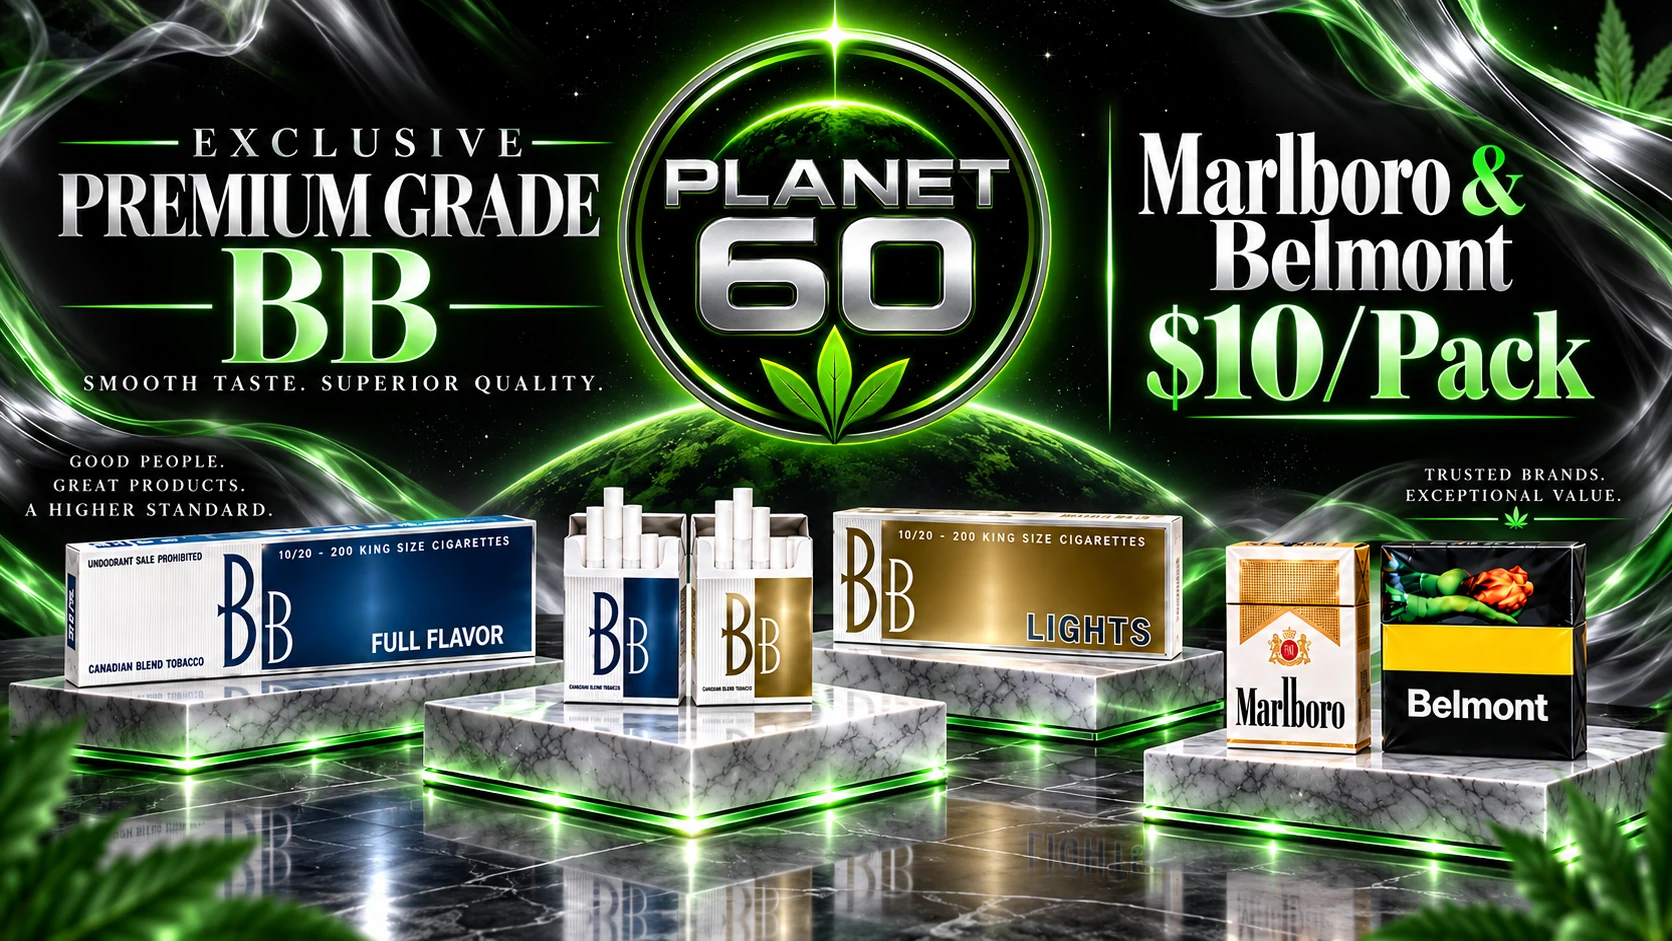
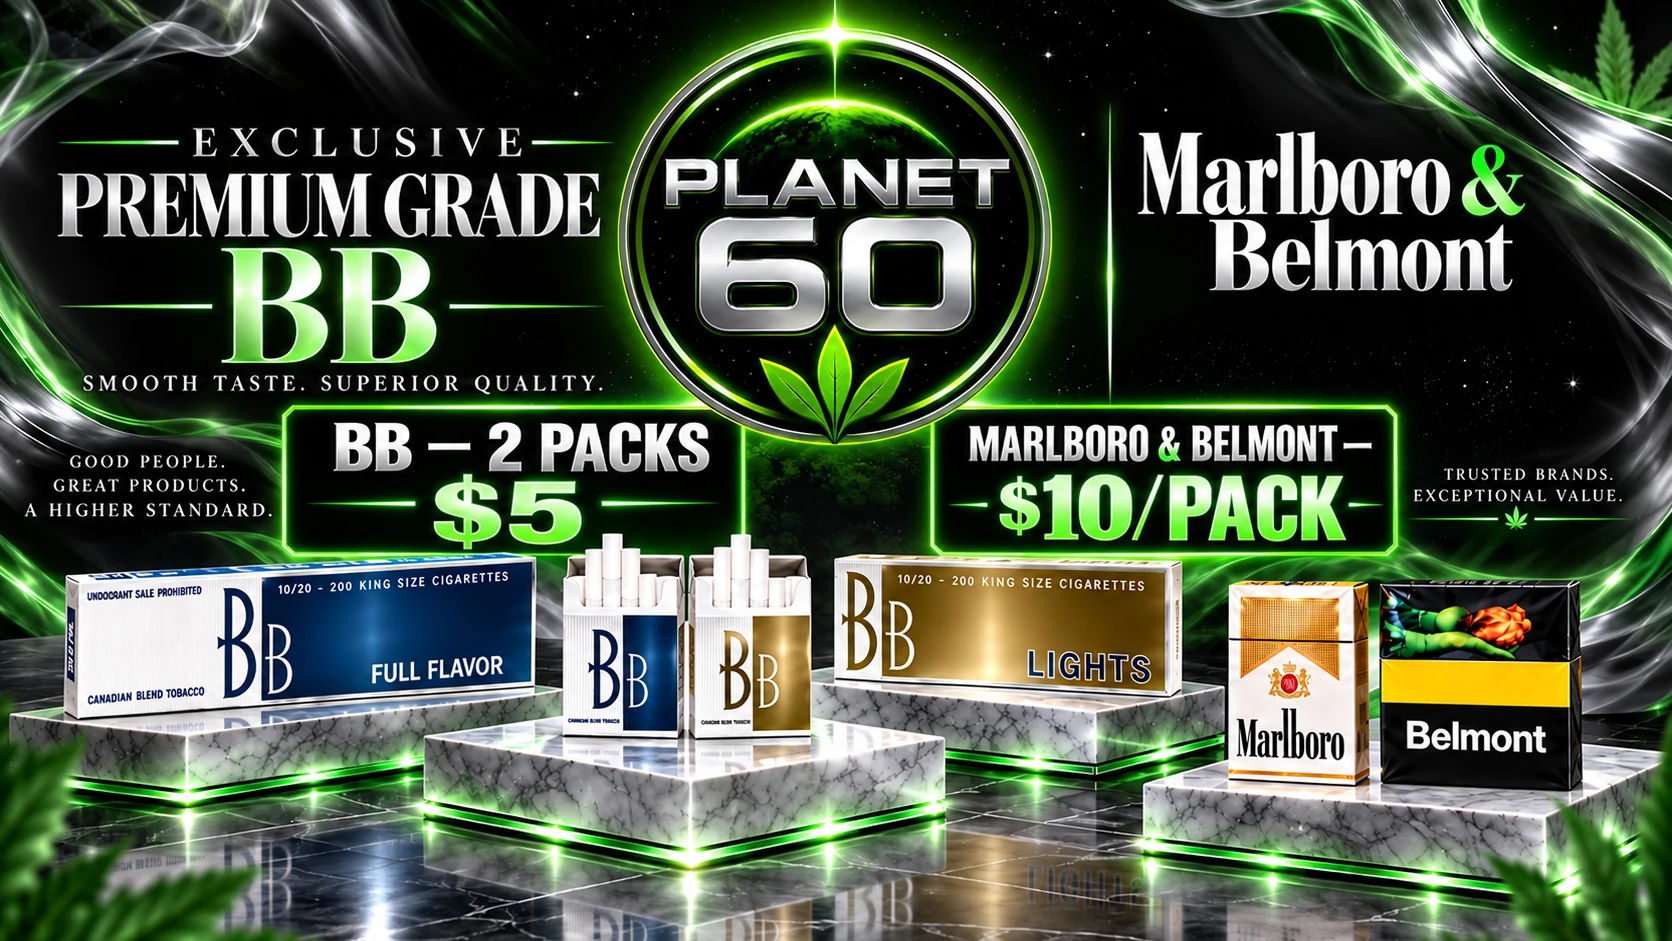
Add core promos to matching categories (#68)

diff --git a/app/components/CategoryCoreBanners.tsx b/app/components/CategoryCoreBanners.tsx
@@ -1,0 +1,52 @@
+import Link from "next/link";
+
+type CategoryCoreBannersProps = { kind: "weed" | "vapes" | "cigarettes" };
+
+const STORE_NAME = "The Planet 60";
+const STORE_AREA = "Peter Robertson Boulevard, Brampton";
+const STORE_ORIGIN = "https://www.theplanet60.com";
+const TOP_WEED_IMAGE = "/banners/core-top-weed-tier.webp";
+const CIGARETTE_IMAGE = "/banners/native-cigarette-offer-20260822.webp";
+const VAPE_IMAGE = "/banners/core-vapes-nicotine-thc.webp";
+const PREMIUM_CIGARETTE_IMAGE = "/banners/core-premium-bb-marlboro-belmont.webp";
+
+export const cigaretteCategoryImage = {
+  alt: `${STORE_NAME} in ${STORE_AREA} — 2 packs for $5 mix and match and $25 carton cigarette offer`,
+  title: `${STORE_NAME} cigarette offer — 2 packs $5 mix and match, $25 carton`,
+};
+
+const promos = {
+  weed: { image: TOP_WEED_IMAGE, href: "/exotic-weed", alt: `${STORE_NAME} in ${STORE_AREA} — Exotic, Premium and AAA+ top weed tiers`, title: `${STORE_NAME} top weed tiers — Exotic, Premium and AAA+`, caption: "Exotic, Premium and AAA+ weed", linkLabel: "Shop weed tiers", schemaName: `${STORE_NAME} top weed tiers`, schemaDescription: `Exotic, Premium and AAA+ weed tiers at ${STORE_NAME} in ${STORE_AREA}.` },
+  vapes: { image: VAPE_IMAGE, href: "/items/vapes", alt: `${STORE_NAME} in ${STORE_AREA} — nicotine vapes and THC vapes`, title: `${STORE_NAME} nicotine vapes and THC vapes`, caption: "Nicotine vapes + THC vapes", linkLabel: "Shop vapes", schemaName: `${STORE_NAME} nicotine and THC vapes`, schemaDescription: `Nicotine vapes and THC vapes at ${STORE_NAME} in ${STORE_AREA}.` },
+  cigarettes: { image: CIGARETTE_IMAGE, href: "/items/cigarettes", alt: cigaretteCategoryImage.alt, title: cigaretteCategoryImage.title, caption: "2 packs $5 mix & match · $25 carton", linkLabel: "Shop cigarettes", schemaName: `${STORE_NAME} cigarette mix and match`, schemaDescription: `Two packs for $5 mix and match and $25 carton cigarette offer at ${STORE_NAME} in ${STORE_AREA}.` },
+  premium: { image: PREMIUM_CIGARETTE_IMAGE, href: "/items/cigarettes", alt: `${STORE_NAME} in ${STORE_AREA} — BB Full Flavor and Lights 2 packs for $5, Marlboro and Belmont $10 per pack`, title: `${STORE_NAME} premium cigarettes — BB 2 packs $5, Marlboro and Belmont $10 per pack`, caption: "BB Full Flavor + Lights — 2 packs $5 · Marlboro & Belmont — $10/pack", linkLabel: "Shop cigarettes", schemaName: `${STORE_NAME} premium cigarette offer`, schemaDescription: `BB Full Flavor and Lights two packs for $5 plus Marlboro and Belmont for $10 per pack at ${STORE_NAME} in ${STORE_AREA}.` },
+} as const;
+
+const figureStyle = { margin: 0, width: "100%" } as const;
+const imageStyle = { display: "block", width: "100%", maxWidth: "100%", height: "auto" } as const;
+const captionStyle = { margin: 0, padding: "14px 18px", background: "#111827", color: "#ffffff", textAlign: "center" as const, fontSize: "clamp(17px, 1.7vw, 28px)", fontWeight: 800, lineHeight: 1.35 };
+const captionLinkStyle = { color: "inherit", textDecoration: "underline", textUnderlineOffset: "3px" } as const;
+
+function PromoFigure({ promo, renderImage = true }: { promo: (typeof promos)[keyof typeof promos]; renderImage?: boolean }) {
+  return (
+    <figure data-category-core-banner={promo === promos.premium ? "premium-cigarettes" : promo === promos.cigarettes ? "cigarettes" : promo === promos.vapes ? "vapes" : "weed"} style={figureStyle}>
+      {renderImage ? <Link href={promo.href} aria-label={promo.alt} style={{ display: "block", width: "100%" }}>
+        {/* eslint-disable-next-line @next/next/no-img-element */}
+        <img src={promo.image} alt={promo.alt} title={promo.title} style={imageStyle} loading="lazy" />
+      </Link> : null}
+      <figcaption style={captionStyle}>{promo.caption} · <Link href={promo.href} style={captionLinkStyle}>{promo.linkLabel}</Link></figcaption>
+    </figure>
+  );
+}
+
+export default function CategoryCoreBanners({ kind }: CategoryCoreBannersProps) {
+  const visiblePromos = kind === "cigarettes" ? [promos.cigarettes, promos.premium] : [promos[kind]];
+  const imageObjects = visiblePromos.map((promo) => ({ "@type": "ImageObject", name: promo.schemaName, description: promo.schemaDescription, contentUrl: `${STORE_ORIGIN}${promo.image}` }));
+  return (
+    <section data-category-core-promos={kind} aria-label={`${STORE_NAME} ${kind} promotions`} style={{ width: "100%", maxWidth: "100%", overflowX: "hidden", marginBottom: "24px" }}>
+      <script type="application/ld+json" dangerouslySetInnerHTML={{ __html: JSON.stringify({ "@context": "https://schema.org", "@graph": imageObjects }).replace(/</g, "\\u003c") }} />
+      {kind === "cigarettes" ? <PromoFigure promo={promos.cigarettes} renderImage={false} /> : <PromoFigure promo={promos[kind]} />}
+      {kind === "cigarettes" ? <PromoFigure promo={promos.premium} /> : null}
+    </section>
+  );
+}

diff --git a/app/components/FleetAnnouncementBanner.tsx b/app/components/FleetAnnouncementBanner.tsx
@@ -15,7 +15,7 @@ const imageObjects = [
   { name: `${STORE_NAME} top weed tiers`, description: `Exotic, Premium and AAA+ weed tiers at ${STORE_NAME} in ${STORE_AREA}.`, contentUrl: `${STORE_ORIGIN}${TOP_WEED_IMAGE}` },
   { name: `${STORE_NAME} nicotine and THC vapes`, description: `Nicotine vapes and THC vapes at ${STORE_NAME} in ${STORE_AREA}.`, contentUrl: `${STORE_ORIGIN}${VAPE_IMAGE}` },
   { name: `${STORE_NAME} cigarette mix and match`, description: `Two packs for $5 mix and match and $25 carton cigarette offer at ${STORE_NAME} in ${STORE_AREA}.`, contentUrl: `${STORE_ORIGIN}${CIGARETTE_IMAGE}` },
-  { name: `${STORE_NAME} premium cigarette offer`, description: `BB Full Flavor and Lights plus Marlboro and Belmont cigarette offer at ${STORE_NAME} in ${STORE_AREA}.`, contentUrl: `${STORE_ORIGIN}${PREMIUM_CIGARETTE_IMAGE}` },
+  { name: `${STORE_NAME} premium cigarette offer`, description: `BB Full Flavor and Lights two packs for $5 plus Marlboro and Belmont for $10 per pack at ${STORE_NAME} in ${STORE_AREA}.`, contentUrl: `${STORE_ORIGIN}${PREMIUM_CIGARETTE_IMAGE}` },
 ].map((image) => ({ "@type": "ImageObject", ...image }));
 
 function isThanksgivingNoticeActive(date: Date) {
@@ -28,7 +28,7 @@ function isThanksgivingNoticeActive(date: Date) {
 const figureStyle = { margin: 0, width: "100%" } as const;
 const imageStyle = { display: "block", width: "100%", maxWidth: "100%", height: "auto" } as const;
 const linkStyle = { display: "block", width: "100%" } as const;
-const captionStyle = { margin: 0, padding: "10px 14px", background: "#111827", color: "#ffffff", textAlign: "center" as const, fontWeight: 800, lineHeight: 1.35 };
+const captionStyle = { margin: 0, padding: "14px 18px", background: "#111827", color: "#ffffff", textAlign: "center" as const, fontSize: "clamp(17px, 1.7vw, 28px)", fontWeight: 800, lineHeight: 1.35 };
 const captionLinkStyle = { color: "inherit", textDecoration: "underline", textUnderlineOffset: "3px" } as const;
 
 export default function FleetAnnouncementBanner() {
@@ -71,9 +71,9 @@ export default function FleetAnnouncementBanner() {
       <figure data-core-banner="premium-cigarettes" data-premium-cigarette-banner="" style={figureStyle}>
         <Link href="/items/cigarettes" aria-label={`Shop BB, Marlboro and Belmont cigarette offers at ${STORE_NAME}`} style={linkStyle}>
           {/* eslint-disable-next-line @next/next/no-img-element */}
-          <img src={PREMIUM_CIGARETTE_IMAGE} alt={`${STORE_NAME} in ${STORE_AREA} — BB Full Flavor and Lights, Marlboro and Belmont premium cigarettes`} title={`${STORE_NAME} premium cigarettes — BB, Marlboro and Belmont`} style={imageStyle} loading="lazy" />
+          <img src={PREMIUM_CIGARETTE_IMAGE} alt={`${STORE_NAME} in ${STORE_AREA} — BB Full Flavor and Lights 2 packs for $5, Marlboro and Belmont $10 per pack`} title={`${STORE_NAME} premium cigarettes — BB 2 packs $5, Marlboro and Belmont $10 per pack`} style={imageStyle} loading="lazy" />
         </Link>
-        <figcaption style={captionStyle}>BB Full Flavor + Lights · Marlboro &amp; Belmont $10/pack · <Link href="/items/cigarettes" style={captionLinkStyle}>Shop cigarettes</Link></figcaption>
+        <figcaption style={captionStyle}>BB Full Flavor + Lights — 2 packs $5 · Marlboro &amp; Belmont — $10/pack · <Link href="/items/cigarettes" style={captionLinkStyle}>Shop cigarettes</Link></figcaption>
       </figure>
       {showThanksgivingNotice ? <p data-thanksgiving-hours-notice="">Thanksgiving Monday (Oct 12): We are open regular hours.</p> : null}
     </aside>

diff --git a/app/items/[category]/page.tsx b/app/items/[category]/page.tsx
@@ -2,6 +2,7 @@ import { notFound } from "next/navigation";
 import type { Metadata } from "next";
 import Link from "next/link";
 import Navbar from "../../components/Navbar";
+import CategoryCoreBanners, { cigaretteCategoryImage } from "../../components/CategoryCoreBanners";
 import SafeImage from "../../components/SafeImage";
 import { getItemPriceDisplay } from "../../lib/itemPricing";
 import Footer from "../../components/Footer";
@@ -73,7 +74,8 @@ export default async function ItemsCategoryPage({
         {config.banner ? (
           <img
             src={config.banner}
-            alt={config.name}
+            alt={catSlug === "cigarettes" ? cigaretteCategoryImage.alt : config.name}
+              title={catSlug === "cigarettes" ? cigaretteCategoryImage.title : config.name}
             style={{ width: "100%", height: "auto", display: "block", objectFit: "contain" }}
           />
         ) : (
@@ -86,6 +88,9 @@ export default async function ItemsCategoryPage({
           </div>
         )}
       </section>
+
+      {(catSlug === "vapes" || catSlug === "vape-disposables") && <CategoryCoreBanners kind="vapes" />}
+      {catSlug === "cigarettes" && <CategoryCoreBanners kind="cigarettes" />}
 
       {/* Product Grid */}
       <section className={styles.products}>

diff --git a/app/[tier]/page.tsx b/app/[tier]/page.tsx
@@ -2,6 +2,7 @@ import { notFound } from "next/navigation";
 import type { Metadata } from "next";
 import Link from "next/link";
 import Navbar from "../components/Navbar";
+import CategoryCoreBanners from "../components/CategoryCoreBanners";
 import Footer from "../components/Footer";
 import FlowerCard from "../components/FlowerCard";
 import {
@@ -102,6 +103,8 @@ export default async function TierPage({
           className={styles.bannerImg}
         />
       </section>
+
+      {["EXOTIC", "PREMIUM", "AAA+"].includes(tierInfo.key.toUpperCase()) ? <CategoryCoreBanners kind="weed" /> : null}
 
       {/* ── Hero Content BELOW banner ── */}
       <section

diff --git a/app/globals.css b/app/globals.css
@@ -472,10 +472,11 @@ button { cursor: pointer; font-family: inherit; }
 }
 
 [data-fleet-homepage-announcement] {
-  display: grid;
-  grid-template-rows: 1fr 1fr;
+  display: flex;
+  flex-direction: column;
   width: 100%;
-  height: var(--fleet-homepage-announcement-height);
+  height: auto;
+  min-height: 0;
 }
 
 [data-fleet-homepage-announcement] > p {
